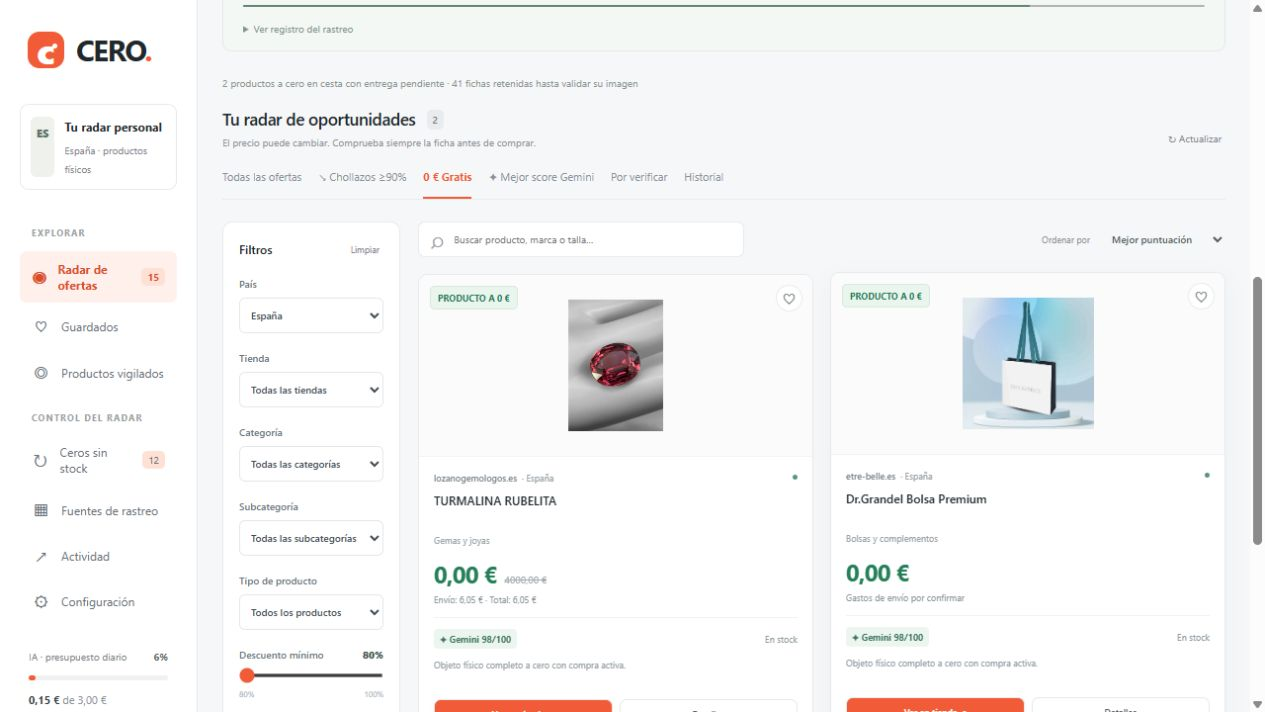
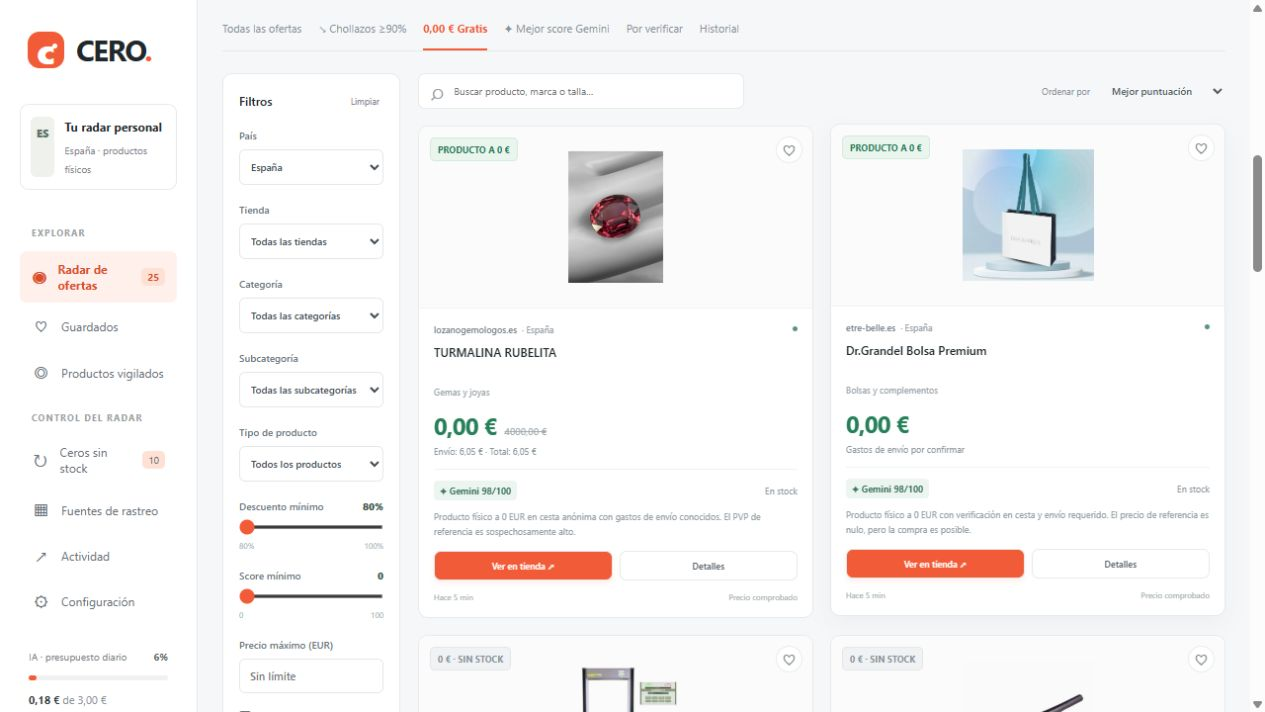
Include product verifier and verify catalog candidates as stores respond

diff --git a/cero/verification.py b/cero/verification.py
@@ -1,0 +1,266 @@
+"""Verificación de una ficha. Nunca convierte el total de una cesta o el envío en precio."""
+import json
+import re
+from html import unescape
+from difflib import SequenceMatcher
+from urllib.parse import urljoin,urlparse
+from bs4 import BeautifulSoup
+from scrapling.parser import Selector
+from cero.money import parse_amount, discount_pct, guess_type, is_sample, is_digital
+from cero.policy import canonical, host_of, known_store, spanish_page
+from cero.db import now
+from cero.images import image_from_page
+from cero.taxonomy import classify
+from cero.market import COUNTRY,CURRENCY,PROFILE
+
+
+def numeric(value):
+    if value is None or isinstance(value,bool):return None
+    try:
+        n=float(str(value).replace(',','.'))
+        return n if 0<=n<1000000 else None
+    except (ValueError,TypeError):return None
+
+
+def walk(node):
+    if isinstance(node,list):
+        for x in node:yield from walk(x)
+    elif isinstance(node,dict):
+        yield node
+        for v in node.values():
+            if isinstance(v,(dict,list)):yield from walk(v)
+
+
+def types(n):
+    t=n.get('@type',[])
+    return [str(x).rstrip('/').split('/')[-1] for x in ([t] if isinstance(t,str) else t)]
+
+
+def category_of(title):
+    return classify(title)['category']
+
+
+def _image(n):
+    x=n.get('image')
+    if isinstance(x,list):x=x[0] if x else ''
+    if isinstance(x,dict):x=x.get('url','')
+    return x or ''
+
+
+def base(url,title,price,source):
+    clean=unescape(BeautifulSoup(unescape(str(title)),'lxml').get_text(' ',strip=True))
+    return {'url':canonical(url),'title':re.sub(r'\s+',' ',clean).strip()[:240],
+      'price':price,'currency':CURRENCY,'store':known_store(url) or host_of(url),'country':COUNTRY,
+      **classify(clean),'source':'ficha',
+      'price_source':source,'status':'candidate','availability':'unknown','reference_price':None,
+      'reference_source':'','shipping':None,'total_price':None,'is_free':price==0,'is_sample':is_sample(title,url),
+      'discount_pct':100 if price==0 else None,'variant':'','image':'','conditions':'',
+      'checked_at':now(),'evidence':[],'confidence':40,'kind':'gratis' if price==0 else 'oferta'}
+
+
+def _main_match(n,url,h1):
+    link=n.get('url') or (n.get('mainEntityOfPage') or {})
+    if isinstance(link,dict):link=link.get('@id','')
+    if link and canonical(urljoin(url,link))!=canonical(url):return False
+    title=str(n.get('name',''))
+    if h1 and title:
+        a=set(re.findall(r'\w+',h1.lower()));b=set(re.findall(r'\w+',title.lower()))
+        return len(a&b)/max(1,min(len(a),len(b)))>=.45
+    return True
+
+
+def parse_product(url,html):
+    soup=BeautifulSoup(html,'lxml')
+    if not spanish_page(url,soup):return []
+    if host_of(url)==PROFILE.get('amazon_domain'):return _amazon(url,soup)
+    if soup.select_one('#page_data'):
+        elc=_elc(url,soup)
+        if elc:return elc
+    h=soup.select_one('h1.product_title,h1[itemprop="name"],h1')
+    h1=h.get_text(' ',strip=True) if h else ''
+    records=[];buy_action=False
+    # Scrapling estandariza la selección de schemas incluso con HTML defectuoso.
+    selector=Selector(html.encode('utf-8'))
+    for raw in selector.css('script[type="application/ld+json"]::text').getall():
+        try:nodes=list(walk(json.loads(raw)))
+        except (ValueError,TypeError):continue
+        buy_action=buy_action or any('BuyAction' in types(n) and isinstance(n.get('object'),dict)
+                                    and _main_match(n['object'],url,h1) for n in nodes)
+        for n in nodes:
+            if not any(t in ('Product','ProductGroup') for t in types(n)) or not _main_match(n,url,h1):continue
+            if 'ProductGroup' in types(n):continue  # Cada variante tiene su propia ficha/URL.
+            offers=n.get('offers') or []
+            if isinstance(offers,dict):offers=[offers]
+            for offer in offers:
+                if not isinstance(offer,dict) or 'AggregateOffer' in types(offer):continue
+                price=numeric(offer.get('price'));currency=offer.get('priceCurrency',CURRENCY)
+                if price is None or currency!=CURRENCY:continue
+                link=urljoin(url,offer.get('url') or n.get('url') or url)
+                if canonical(link)!=canonical(url):continue
+                d=base(url,h1 or n.get('name',''),price,'schema.org/Offer')
+                d['image']=urljoin(url,_image(n)) if _image(n) else '';d['sku']=n.get('sku','')
+                d['gtin']=str(n.get('gtin13') or n.get('gtin14') or n.get('gtin12') or n.get('gtin') or '')
+                d['evidence'].append(f'Precio del producto: {price:.2f} EUR (schema.org/Offer).')
+                avail=str(offer.get('availability','')).split('/')[-1].lower()
+                d['availability']={'instock':'in_stock','outofstock':'out_of_stock','soldout':'out_of_stock',
+                    'discontinued':'out_of_stock','preorder':'preorder','presale':'preorder','backorder':'preorder'}.get(avail,'unknown')
+                d['evidence'].append('Disponibilidad declarada: '+(avail or 'sin datos')+'.')
+                specs=offer.get('priceSpecification') or []
+                if isinstance(specs,dict):specs=[specs]
+                for spec in specs:
+                    typ=str(spec.get('priceType',''))
+                    if any(x in typ for x in ('StrikethroughPrice','ListPrice','MSRP')):
+                        v=numeric(spec.get('price'))
+                        if v is not None and v>price:d['reference_price']=v;d['reference_source']='PVP tachado de la tienda'
+                shipping=offer.get('shippingDetails') or []
+                if isinstance(shipping,dict):shipping=[shipping]
+                for ship in shipping:
+                    dest=ship.get('shippingDestination',{}).get('addressCountry','')
+                    if isinstance(dest,dict):dest=dest.get('name') or dest.get('addressCountry')
+                    rate=ship.get('shippingRate',{})
+                    if dest in (COUNTRY,PROFILE['name']) or COUNTRY=='ES' and dest=='Spain':
+                        if rate.get('currency',CURRENCY)==CURRENCY:d['shipping']=numeric(rate.get('value'))
+                records.append(d)
+    # WooCommerce visible o metadatos de producto, nunca el precio mínimo de toda la página.
+    if not records and h1:
+        el=soup.select_one('.summary .price ins .amount,.summary .price .amount,[itemprop="price"][content]')
+        meta=soup.select_one('meta[property="product:price:amount"]')
+        if el or meta:
+            el=el if el is not None else meta
+            price=parse_amount(el.get('content') or el.get_text(' ',strip=True))
+            if price is not None:
+                d=base(url,h1,price,'DOM del producto');old=soup.select_one('.summary .price del .amount')
+                if old is not None:
+                    ref=parse_amount(old.get_text(' ',strip=True))
+                    if ref and ref>price:d['reference_price']=ref;d['reference_source']='PVP tachado de la tienda'
+                records.append(d)
+    # No buscar CTA en tarjetas de productos relacionados.
+    button=soup.select_one('#product-addtocart-button,form.cart button.single_add_to_cart_button,form.cart input[type="submit"],form.ec_add_to_cart_form input[type="submit"],button[data-test="pdp-add-to-cart"],button[data-test="add-to-cart-button"],button[data-testid="add-to-cart-button"],.product-add-to-cart button.add-to-cart,.product-actions button[data-button-action="add-to-cart"],form[action*="cart"] button[name="add"],.product-form__submit')
+    purchasable=button is not None and not button.has_attr('disabled') and button.get('aria-disabled')!='true' and 'disabled' not in (button.get('class') or [])
+    styles=' '.join(s.get_text() for s in soup.select('style'))
+    # Algunos regalos internos publican price=0 pero ocultan expresamente la compra.
+    description=soup.select_one('#tab-description,.woocommerce-product-details__short-description,[itemprop="description"]')
+    desc=description.get_text(' ',strip=True) if description else ''
+    hidden=bool(re.search(r'(?:form\.cart|\.single_add_to_cart_button)[^{]*\{[^}]*display\s*:\s*none',styles+' '+desc,re.I))
+    conditional=bool(re.search(r'gratis (?:al|por|con) comprar|regalo (?:por|con) (?:la |tu )?compra|pedido m[ií]nimo|solicitar presupuesto|pide presupuesto|solo presupuesto|precio a consultar',desc,re.I))
+    for d in records:
+        # Un precio tachado sólo se asocia si comparte bloque con el precio actual.
+        if d['reference_price'] is None:
+            easy=soup.select_one('.ec_details_price')
+            current=easy.select_one('.ec_product_sale_price') if easy else None
+            old=easy.select_one('.ec_product_old_price') if easy else None
+            if current and old and parse_amount(current.get_text('',strip=True))==d['price']:
+                ref=parse_amount(old.get_text('',strip=True))
+                if ref and ref>d['price']:d['reference_price']=ref;d['reference_source']='PVP tachado de WP EasyCart'
+            for price_block in soup.select('[data-testid="price-indication"],[mcclane-data="product-page-price"],.prices,.product-info-price,.summary .price'):
+                current=price_block.select_one('[data-testid="price-indication-price"],meta[itemprop="price"],.final-price [mcclane-data="product-price"],.normal-price.special .price,ins .amount')
+                old=price_block.select_one('.old-price,del .amount,del')
+                value=parse_amount(current.get('content') or current.get_text(' ',strip=True)) if current else None
+                ref=parse_amount(old.get_text(' ',strip=True)) if old else None
+                if value is not None and abs(value-d['price'])<.005 and ref and ref>d['price']:
+                    d['reference_price']=ref;d['reference_source']='PVP tachado de la misma variante en la tienda';break
+        d['image']=image_from_page(soup,url,d['image'])
+        if d['reference_price'] is None:
+            old=soup.select_one('.summary .price del .amount')
+            if old:
+                ref=parse_amount(old.get_text(' ',strip=True))
+                if ref and ref>d['price']:d['reference_price']=ref;d['reference_source']='PVP tachado de la tienda'
+        if d['availability']=='unknown' and purchasable:d['availability']='in_stock'
+        if d['availability']=='out_of_stock':
+            d['status']='expired';d['conditions']='Sin stock.'
+            if hidden:d['page_status']='unavailable';d['conditions']='Sin stock y compra oculta por la tienda; no es una oferta de venta pública.'
+        elif hidden:d['status']='candidate';d['conditions']='La tienda oculta el precio o el formulario de compra. No se confirma como gratis.'
+        elif conditional:d['status']='conditional';d['conditions']='La descripción indica compra adicional o presupuesto. Revisar condiciones.'
+        elif (purchasable or (button is None and buy_action and d['price']>0)) and d['availability'] in ('in_stock','preorder'):
+            d['status']='verified'
+            if d['price']==0:
+                d['status']='candidate';d['conditions']='Precio cero publicado con compra activa; falta comprobar una cesta anónima.'
+                d['_cart_eligible']=True
+        else:d['conditions']='Precio publicado; no se pudo confirmar un botón de compra activo.'
+        if purchasable:d['evidence'].append('Botón de compra presente y habilitado en el HTML.')
+        if hidden:d['evidence'].append('CSS de la ficha: formulario de compra oculto.')
+        if buy_action:d['evidence'].append('La tienda declara BuyAction para el producto.')
+        if d['shipping'] is not None:d['total_price']=round(d['price']+d['shipping'],2)
+        d['discount_pct']=100 if d['price']==0 else discount_pct(d['price'],d['reference_price'])
+        d['confidence']=90 if d['status']=='verified' else 35
+        if d['is_sample'] or is_digital(d['title'],url):d['status']='rejected'
+        if re.search(r'^(?:gastos de env[ií]o|env[ií]o en caja|presupuesto|muestras?\b|visita\b|entrada\b|donaci[oó]n|tarjeta regalo)',d['title'],re.I):
+            d['status']='rejected';d['conditions']='Servicio, muestra o artículo simbólico; no es un producto físico completo.'
+    seen=set();out=[]
+    for d in records:
+        k=(d['url'],d['variant'],d['price'])
+        if k not in seen:seen.add(k);out.append(d)
+    return out
+
+
+def _elc(url,soup):
+    """Precios por SKU de ELC: un SKU no comprable no hereda el botón de otro."""
+    try:data=json.loads(soup.select_one('#page_data').get_text())
+    except (TypeError,ValueError):return []
+    selected=re.fullmatch(r'/?sku/(\d+)',urlparse(url).fragment,re.I)
+    out=[];seen=set()
+    for product in walk(data.get('catalog-spp',{})):
+        if not isinstance(product.get('skus'),list):continue
+        product_path=urlparse(product.get('url','')).path.rstrip('/')
+        if not product_path or not urlparse(url).path.rstrip('/').endswith(product_path):continue
+        title=unescape(' '.join(str(product.get(k) or '') for k in ('PROD_RGN_NAME','PROD_RGN_SUBHEADING'))).strip()
+        for sku in product['skus']:
+            sid=str(sku.get('SKU_BASE_ID') or str(sku.get('SKU_ID','')).removeprefix('SKU'))
+            if not sid.isdigit() or sid in seen or (selected and sid!=selected[1]):continue
+            seen.add(sid);price=numeric(sku.get('PRICE'))
+            if price is None:continue
+            link=canonical(url).split('#')[0]+'#/sku/'+sid
+            d=base(link,title,price,'Datos de la variante ELC: PRICE')
+            d.update(sku='SKU'+sid,variant=sku.get('shadeMenuLabel') or sku.get('PRODUCT_SIZE') or '',gtin=sku.get('UPC_CODE') or '')
+            images=sku.get('LARGE_IMAGE_V2') or sku.get('MEDIUM_IMAGE_V2') or []
+            if images:d['image']=urljoin(url,images[0])
+            ref=numeric(sku.get('PRICE2'))
+            if ref and ref>price:d.update(reference_price=ref,reference_source='Precio anterior de la misma variante ELC')
+            d['discount_pct']=100 if price==0 else discount_pct(price,ref)
+            orderable=sku.get('isOrderable')==1 and sku.get('isShoppable')==1
+            if sku.get('isOutOfStock')==1 or sku.get('isSoldOut')==1:
+                d.update(status='expired',availability='out_of_stock',conditions='Variante sin stock según sus propios datos.')
+            elif not orderable:
+                d.update(status='conditional',availability='unknown',page_status='unavailable',conditions='Variante con precio publicado pero bloqueada para pedidos: isOrderable=0 o isShoppable=0. El botón de otra variante no la confirma.')
+            else:
+                d.update(status='candidate',availability='in_stock',conditions='Precio y variante leídos. Falta confirmar la cesta de esta plataforma.')
+            d['evidence']=[f"SKU exacto: {d['sku']}; precio {price} EUR.",f"isOrderable={sku.get('isOrderable')}; isShoppable={sku.get('isShoppable')}; isOutOfStock={sku.get('isOutOfStock')}."]
+            out.append(d)
+    return out
+
+
+def _amazon(url,soup):
+    title=soup.select_one('#productTitle')
+    if title is None:return []
+    block=(soup.select_one('#corePriceDisplay_desktop_feature_div')
+           or soup.select_one('#corePriceDisplay_mobile_feature_div') or soup.select_one('#corePrice_feature_div'))
+    price_el=block.select_one('.a-price:not(.a-text-price) .a-offscreen') if block else None
+    price=parse_amount(price_el.get_text(' ',strip=True)) if price_el else None
+    if price is None and block:
+        accessible=block.select_one('#apex-pricetopay-accessibility-label')
+        if accessible:price=parse_amount(accessible.get_text(' ',strip=True))
+    if price is None:return []
+    d=base(url,title.get_text(' ',strip=True),price,'Amazon: precio principal de la variante')
+    old=block.select_one('.a-text-price .a-offscreen')
+    if old:
+        ref=parse_amount(old.get_text(' ',strip=True))
+        if ref and ref>price:d['reference_price']=ref;d['reference_source']='Precio de referencia de Amazon'
+    size=soup.select_one('#variation_size_name .selection,#variation_size_name .a-dropdown-prompt')
+    if size:d['variant']='Talla '+size.get_text(' ',strip=True)
+    color=soup.select_one('#variation_color_name .selection')
+    if color:d['variant']+=' · '+color.get_text(' ',strip=True)
+    image=soup.select_one('#landingImage,#imgBlkFront')
+    if image:d['image']=image.get('data-old-hires') or image.get('src','')
+    btn=soup.select_one('#add-to-cart-button,[name="submit.add-to-cart"]')
+    av=soup.select_one('#availability,#availabilityInsideBuyBox_feature_div')
+    stock=av.get_text(' ',strip=True) if av else ''
+    d['availability']='in_stock' if btn is not None and not btn.has_attr('disabled') else 'unknown'
+    if re.search(r'no disponible|sin stock|agotado',stock,re.I):d['availability']='out_of_stock'
+    if re.search(r'meses|reserva|temporalmente',stock,re.I) and btn is not None:d['availability']='preorder'
+    d['status']='verified' if d['availability'] in ('in_stock','preorder') else 'expired' if d['availability']=='out_of_stock' else 'candidate'
+    if price==0 and d['status']=='verified':
+        d['status']='candidate';d['conditions']='Precio cero en Amazon; falta comprobar la cesta de esta variante.'
+    d['conditions']=' · '.join(filter(None,[d['conditions'],stock]));d['discount_pct']=100 if price==0 else discount_pct(price,d['reference_price'])
+    d['evidence']=[f'Precio principal: {price:.2f} EUR.',f'Variante: {d["variant"] or "sin especificar"}.',f'Botón de compra: {"presente" if btn is not None else "no localizado"}.']
+    d['confidence']=90 if d['status']=='verified' else 40
+    return [d]

diff --git a/cero/scanner.py b/cero/scanner.py
@@ -106,14 +106,18 @@ def _run(profile,url):
             if api_candidates:_verify(c,api_candidates,'catalogue')
             from cero.registry import import_catalog,analyze_catalog
             import_catalog()
-            registry_candidates=analyze_catalog(600 if profile=='deep' else 35,_log,_stop.is_set)
-            if registry_candidates:
-                from cero.policy import host_of
-                counts={};fair=[]
-                for d in sorted(registry_candidates,key=lambda d:(d.get('price')==0,d.get('discount_pct') or 0),reverse=True):
-                    host=host_of(d['url']);counts[host]=counts.get(host,0)+1
-                    if counts[host]<=5:fair.append(d)
-                _verify(c,fair[:150 if profile=='deep' else 80],'verifying')
+            from cero.policy import host_of
+            catalog_seen=set();catalog_counts={};catalog_limit=150 if profile=='deep' else 80
+            def live_catalog(found):
+                if _stop.is_set():return
+                selected=[]
+                for d in sorted(found,key=lambda d:(d.get('price')==0,d.get('discount_pct') or 0),reverse=True):
+                    key=canonical(d['url']);host=host_of(key)
+                    if key in catalog_seen or len(catalog_seen)>=catalog_limit or catalog_counts.get(host,0)>=5:continue
+                    catalog_seen.add(key);catalog_counts[host]=catalog_counts.get(host,0)+1;selected.append(d)
+                if selected:_verify(c,selected,'verifying')
+            analyze_catalog(600 if profile=='deep' else 35,_log,_stop.is_set,
+                            lambda done,total:_progress('coverage',done,total),live_catalog)
             jobs=discovery_jobs(c,profile);_log(f'Explorando {len(jobs)} fuentes: tiendas, catálogos y buscadores.');_progress('discovery',0,len(jobs))
             candidates=[];urls=[]
             with ThreadPoolExecutor(max_workers=8) as pool:

diff --git a/cero/registry.py b/cero/registry.py
@@ -101,10 +101,11 @@ def analyze(store):
     return products,links,status
 
 
-def analyze_catalog(limit=600,log=None,stop=None):
+def analyze_catalog(limit=600,log=None,stop=None,progress=None,on_candidates=None):
     log=log or print;c=connect()
     stores=[dict(r) for r in c.execute('SELECT * FROM stores WHERE enabled=1 AND (next_check IS NULL OR next_check<=?) ORDER BY checked_at IS NOT NULL,checked_at LIMIT ?',(now(),limit))];c.close()
     log(f'Cobertura: comprobando {len(stores)} tiendas con dominio único.');candidates=[]
+    if progress:progress(0,len(stores))
     from cero.hunter import candidate
     with ThreadPoolExecutor(max_workers=10) as pool:
         futures=[pool.submit(analyze,s) for s in stores]
@@ -114,6 +115,8 @@ def analyze_catalog(limit=600,log=None,stop=None):
                 break
             try:products,links,status=f.result()
             except Exception:continue
-            candidates.extend(d for d in products if candidate(d))
+            found=[d for d in products if candidate(d)];candidates.extend(found)
+            if on_candidates and found:on_candidates(found)
+            if progress:progress(i,len(stores))
             if i%25==0 or i==len(stores):log(f'Cobertura: {i}/{len(stores)} tiendas analizadas en esta pasada.')
     return candidates
